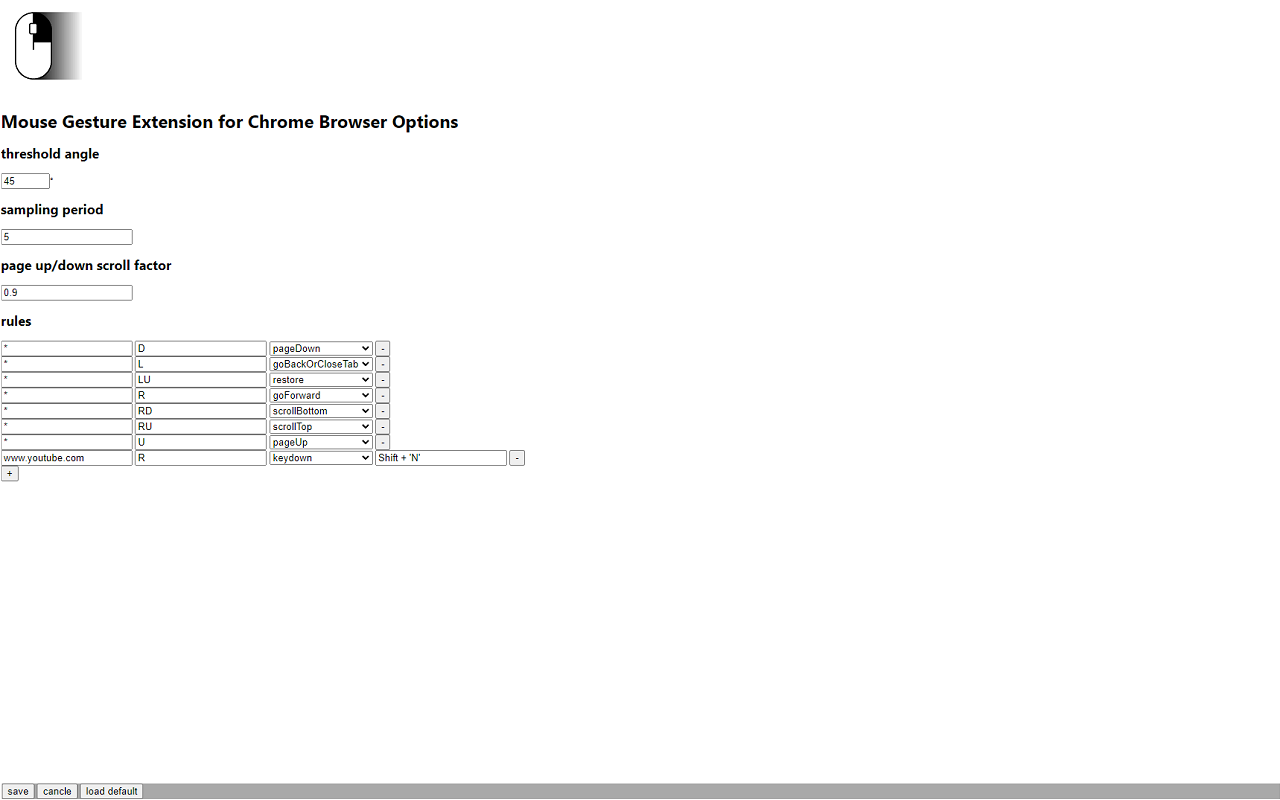
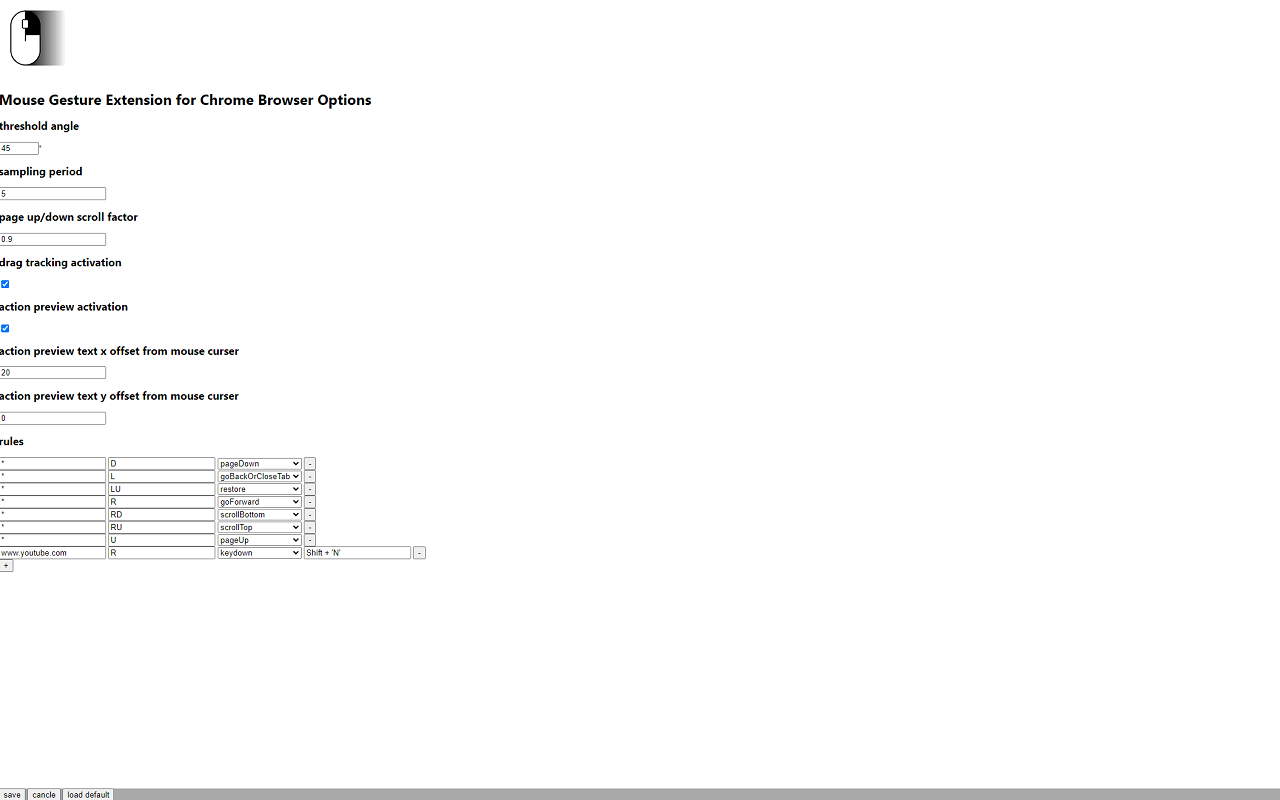
UX enhancement
1. 마우스 드래그 시 이동 경로를 선으로 표시
1. 실행될 action을 미리 알려주는 action preview 추가
1. option 업데이트 버그 수정

Changed region(s): [[0.0, 0.0, 0.3438, 0.7188], [0.0, 0.9688, 1.0, 1.0], [0.375, 0.5625, 0.4062, 0.5938]]

diff --git a/options.js b/options.js
@@ -1,6 +1,10 @@
 threshold_angle_form_element = document.getElementById('threshold_angle');
 sampling_period_form_element = document.getElementById('sampling_period');
 scroll_factor_form_element = document.getElementById('scroll_factor');
+use_draw_line_form_element = document.getElementById('use_draw_line');
+use_action_preview_form_element = document.getElementById('use_action_preview');
+action_preview_x_offset_form_element = document.getElementById('action_preview_x_offset');
+action_preview_y_offset_form_element = document.getElementById('action_preview_y_offset');
 gestures_form_element = document.getElementById('gestures');
 rule_template_element = document.getElementById('rule_template');
 keydown_template_element = rule_template_element.querySelector('input[name=keydown]');
@@ -107,6 +111,16 @@ saveOptions = () => {
     if (scroll_factor){
         options['scroll_factor'] = scroll_factor;
     }
+    options['use_draw_line'] = use_draw_line_form_element.checked;
+    options['use_action_preview'] = use_action_preview_form_element.checked;
+    const action_preview_x_offset = Number(action_preview_x_offset_form_element.value);
+    if (action_preview_x_offset) {
+        options['action_preview_x_offset'] = action_preview_x_offset;
+    }
+    const action_preview_y_offset = Number(action_preview_y_offset_form_element.value);
+    if (action_preview_y_offset) {
+        options['action_preview_y_offset'] = action_preview_y_offset;
+    }
 
     chrome.storage.sync.set(options);
 }
@@ -158,6 +172,10 @@ loadOptions().then((options) => {
     threshold_angle_form_element.setAttribute('value', threshold_angle);
     sampling_period_form_element.setAttribute('value', sampling_period);
     scroll_factor_form_element.setAttribute('value', scroll_factor);
+    use_draw_line_form_element.checked = use_draw_line;
+    use_action_preview_form_element.checked = use_action_preview;
+    action_preview_x_offset_form_element.setAttribute('value', action_preview_x_offset);
+    action_preview_y_offset_form_element.setAttribute('value', action_preview_y_offset);
 
     document.getElementById('add_gesture').onclick = addGestureInput();
     document.getElementById('update').onclick = saveOptions;

diff --git a/ui.js b/ui.js
@@ -1,0 +1,68 @@
+line_class_name = 'mouse_gesture_for_chrome_line';
+
+createLineElement = (x, y, length, angle) => {
+    var line = document.createElement("div");
+    var styles = 'border: 1px solid black; '
+               + 'width: ' + length + 'px; '
+               + 'height: 0px; '
+               + '-moz-transform: rotate(' + angle + 'rad); '
+               + '-webkit-transform: rotate(' + angle + 'rad); '
+               + '-o-transform: rotate(' + angle + 'rad); '
+               + '-ms-transform: rotate(' + angle + 'rad); '
+               + 'position: absolute; '
+               + 'top: ' + y + 'px; '
+               + 'left: ' + x + 'px; ';
+    line.setAttribute('style', styles);
+    line.classList.add(line_class_name);
+    return line;
+}
+
+createLine = (x1, y1, x2, y2) => {
+    var a = x1 - x2,
+        b = y1 - y2,
+        c = Math.sqrt(a * a + b * b);
+
+    var sx = (x1 + x2) / 2,
+        sy = (y1 + y2) / 2;
+
+    var x = sx - c / 2,
+        y = sy;
+
+    var alpha = Math.PI - Math.atan2(-b, a);
+
+    document.body.appendChild(createLineElement(x, y, c, alpha));
+}
+
+removeLines = () => {
+    [...document.getElementsByClassName(line_class_name)].forEach(e => e.remove());
+}
+
+
+let action_preview;
+
+setTextActionPreview = (action_text, x, y) => {
+    if (action_preview) {
+        action_preview.innerHTML = action_text ?? "";
+    } else {
+        action_preview = document.createElement('p');
+        action_preview.innerHTML = action_text ?? "";
+        action_preview.style.position = 'absolute';
+        action_preview.style.zIndex = 1000;
+        action_preview.style.color = 'black';
+        action_preview.style.backgroundColor = 'white';
+        action_preview.style.left = x + action_preview_x_offset + 'px';
+        action_preview.style.top = y + action_preview_y_offset + 'px';
+        document.body.appendChild(action_preview);
+    }
+}
+
+setPositionActionPreview = (x, y) => {
+    if (action_preview) {
+        action_preview.style.left = x + action_preview_x_offset + 'px';
+        action_preview.style.top = y + action_preview_y_offset + 'px';
+    }
+}
+
+hideActionPreview = () => {
+    action_preview = action_preview?.remove();
+}

diff --git a/gesture.js b/gesture.js
@@ -30,6 +30,8 @@ onMouseDown = (event) => {
 }
 
 onMouseMove = (event) => {
+    if (use_action_preview) setPositionActionPreview(event.pageX, event.pageY);
+
     move_event_count += 1;
     if (move_event_count < sampling_period) {
         return;
@@ -41,10 +43,12 @@ onMouseMove = (event) => {
         menu_enabled = false;
     }
 
+    if (use_draw_line) createLine(prevX, prevY, event.pageX, event.pageY);
+
     token = createToken(event.pageX, event.pageY);
     if (token !== prev_token) {
         gesture += token;
-        // showAction(gesture);
+        if (use_action_preview) setTextActionPreview(gestures[gesture]?.action, event.pageX, event.pageY);
     }
 
     prevX = event.pageX;
@@ -55,6 +59,8 @@ onMouseMove = (event) => {
 onMouseUp = (event) => {
     switch (event.button) {
         case 2: // mouse right button
+            removeLines();
+            if (use_action_preview) hideActionPreview();
             executeGesture(gesture);
             document.removeEventListener('mousemove', onMouseMove);
             break;
@@ -96,16 +102,6 @@ executeGesture = (gesture) => {
     if (fn) fn(gestures[gesture].action_details);
 }
 
-// showAction = (gesture) => {
-//     action = gestures[gesture].action;
-//     action_element.appendChild(document.createTextNode(gesture));
-//     action_element.hidden = false;
-// }
-
-// hideAction = () => {
-//     action_element.hidden = true;
-// }
-
 enableGesture = () => {
     document.addEventListener('mousedown', onMouseDown);
     document.addEventListener('mouseup', onMouseUp);
@@ -125,6 +121,8 @@ loadOptions().then(() => {
         if (changes?.sampling_period) options['sampling_period'] = changes?.sampling_period?.newValue;
         if (changes?.threshold_angle) options['threshold_angle'] = changes?.threshold_angle?.newValue;
         if (changes?.scroll_factor) options['scroll_factor'] = changes?.scroll_factor?.newValue;
+        if (changes?.use_draw_line) options['use_draw_line'] = changes?.use_draw_line?.newValue;
+        if (changes?.use_action_preview) options['use_action_preview'] = changes?.use_action_preview?.newValue;
         updateOptions(options);
     });
 });

diff --git a/background.js b/background.js
@@ -50,11 +50,20 @@ const default_sampling_period = 5;
 const default_threshold_angle = 45;
 const default_scroll_factor = 0.9;
 
+const default_use_draw_line = true;
+const default_use_action_preview = true;
+const default_action_preview_x_offset = 20;
+const default_action_preview_y_offset = 0;
+
 const default_options = {
     'domains': default_domains,
     'threshold_angle': default_threshold_angle,
     'sampling_period': default_sampling_period,
     'scroll_factor': default_scroll_factor,
+    'use_draw_line': default_use_draw_line,
+    'use_action_preview': default_use_action_preview,
+    'action_preview_x_offset': default_action_preview_x_offset,
+    'action_preview_y_offset': default_action_preview_y_offset,
     'version': chrome.runtime.getManifest().version,
 };
 
@@ -65,6 +74,13 @@ chrome.runtime.onInstalled.addListener((details) => {
             openOptions();
             break;
         case 'update':
+            chrome.storage.sync.get().then(options => {
+                chrome.storage.sync.set({
+                    ...default_options,
+                    ...options,
+                    'version': chrome.runtime.getManifest().version
+                });
+            });
             break;
         default:
             break;

diff --git a/options.html b/options.html
@@ -26,6 +26,26 @@
                     <input type="number" id="scroll_factor" min="0" />
                 </label><br>
 
+                <label class="number">
+                    <h2>drag tracking activation</h2>
+                    <input type="checkbox" id="use_draw_line">
+                </label>
+
+                <label class="number">
+                    <h2>action preview activation</h2>
+                    <input type="checkbox" id="use_action_preview">
+                </label>
+
+                <label class="number">
+                    <h2>action preview text x offset from mouse curser</h2>
+                    <input type="number" id="action_preview_x_offset">
+                </label>
+
+                <label class="number">
+                    <h2>action preview text y offset from mouse curser</h2>
+                    <input type="number" id="action_preview_y_offset">
+                </label>
+
                 <h2>rules</h2>
                 <div id="rule_template">
                     <input name="domain" type="url" value="*" autocomplete="off" >

diff --git a/load_options.js b/load_options.js
@@ -1,11 +1,16 @@
 var domains, gestures, sampling_period, threshold_angle, scroll_factor;
+var use_draw_line, use_action_preview, action_preview_font_color, action_preview_background_color, action_preview_x_offset, action_preview_y_offset;
 
 updateOptions = (options) => {
     domains = options?.domains ?? domains;
-    gestures = {...options.domains['*'], ...options.domains[document.domain]}
+    gestures = {...domains['*'], ...domains[document.domain]}
     threshold_angle = options?.threshold_angle ?? threshold_angle;
     sampling_period = options?.sampling_period ?? sampling_period;
     scroll_factor = options?.scroll_factor ?? scroll_factor;
+    use_draw_line = options?.use_draw_line ?? use_draw_line;
+    use_action_preview = options?.use_action_preview ?? use_action_preview;
+    action_preview_x_offset = options?.action_preview_x_offset ?? action_preview_x_offset;
+    action_preview_y_offset = options?.action_preview_y_offset ?? action_preview_y_offset;
 }
 
 loadOptions = () => chrome.storage.sync.get().then((options) => {

diff --git a/README.md b/README.md
@@ -16,6 +16,14 @@
 1. page up/down scroll factor (>= 0)
     * page up/down 동작 시 페이지가 움직이는 정도
         * 예시: `0.9`
+1. drag tracking activation
+    * 마우스 우클릭 상태로 움직인 경로를 화면에 보여주는 기능 활성화 여부
+1. action preview activation
+    * 실행 될 action을 미리 보여주는 action preview 기능 활성화 여부
+1. action preview text x offset from mouse curser
+    * 마우스 커서로부터 action preview이 x 축 방향으로 떨어져 있는 거리 (단위: px)
+1. action preview text y offset from mouse curser
+    * 마우스 커서로부터 action preview이 y 축 방향으로 떨어져 있는 거리 (단위: px)
 1. rules
     * 도메인 별 제스쳐에 따른 동작을 정의
     * 어떤 제스처에 일치하는 도메인이 있을 경우 해당 동작을 실행하며, 일치하는 도메인이 없는 경우 `*`에 해당하는 동작을 실행함

diff --git a/README.en.md b/README.en.md
@@ -16,6 +16,14 @@ Mouse gesture extension for Chrome browser
 1. page up/down scroll factor (0 - 1)
     * amount of moving when page up/down action
         * example: `0.9`
+1. drag tracking activation
+    * show lines on the screen while drag the mouse
+1. action preview activation
+    * show which action will be executed on the preview action text field
+1. action preview text x offset from mouse curser
+    * x axis distance from mouse curser to action preview text field (unit: px)
+1. action preview text y offset from mouse curser
+    * y axis distance from mouse curser to action preview text field (unit: px)
 1. rules
     * which action should be executed by the gesture depends on the domain
     * if the domain exists for a gesture then execute the action, else none of the domain is matching then execute action for `*`
